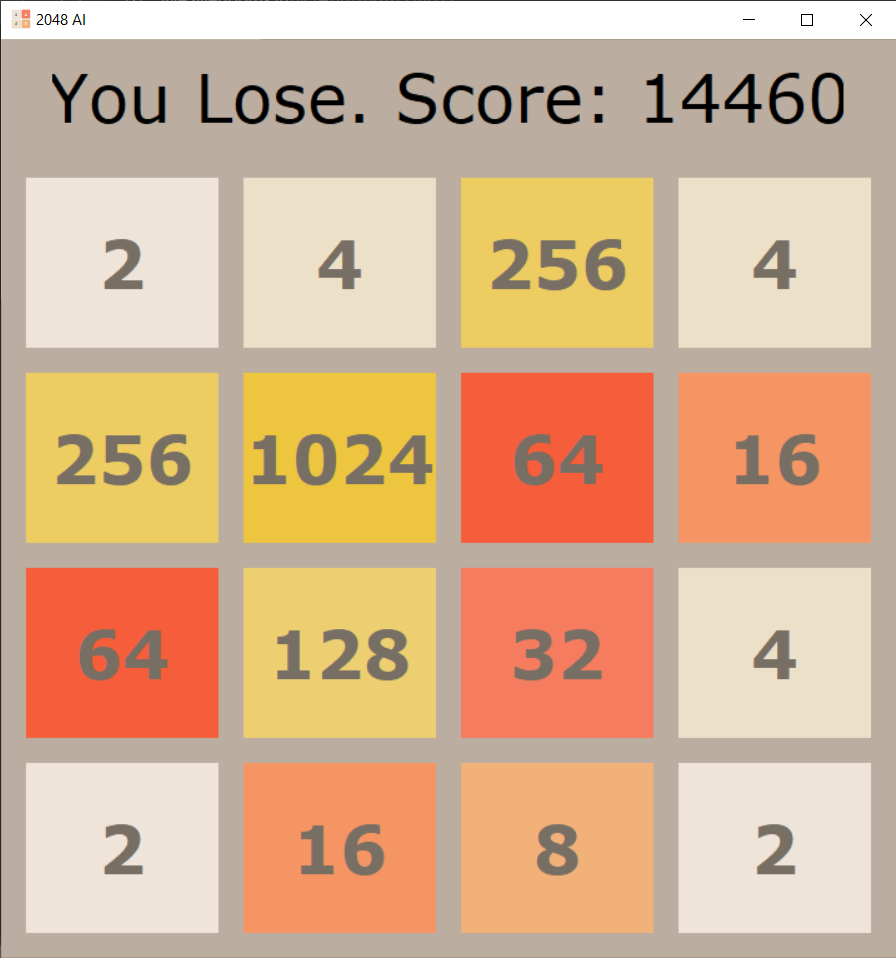
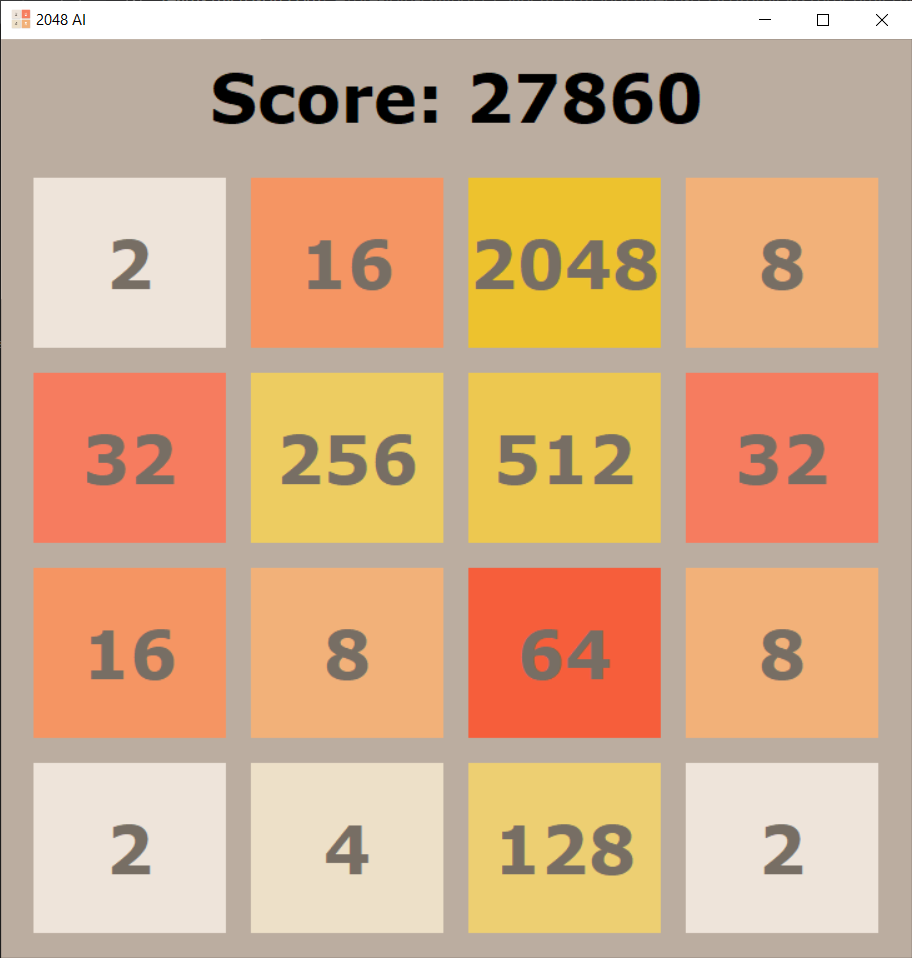
Updated README

diff --git a/Game.py b/Game.py
@@ -16,7 +16,7 @@ def runGame(playerIsHuman):
     score = 0
     scoreLabel = Label(
         root,
-        width = 20,
+        width = 19,
         height = 1,
         justify = CENTER,
         font = ('Verdana', 40, 'bold'),

diff --git a/README.md b/README.md
@@ -1,15 +1,9 @@
 # 2048 AI
-This is a algorithm, written in Python, which plays the game [2048](https://en.wikipedia.org/wiki/2048_(video_game)). It reaches an average score of 8,000 and high score of 15,000.
+This is a algorithm, written in Python, which plays the game [2048](https://en.wikipedia.org/wiki/2048_(video_game)). It reaches the 2048 tile about 60% of the time and 1024 tile nearly 100% of the time.
 
 ![Image](/screenshot.png)
 
-The algorithm is based on the [minimax](https://en.wikipedia.org/wiki/Minimax) algorithm. At each move, the algorithm looks into all possible moves, to a certain depth, and chooses the one with the best score. There is an element of randomness in the game, about where the 2s and 4s will appear on the board, so the algorithm take the average of scores for each possible position of the new tile.
-
-The score of each move is determined by a heuristic function. This function returns a score for a given game board which is based on common strategies for the game like:
- - Increasing the score
- - Placing higher value tiles in a single corner
- - Sorting tiles in increasing order so that it will be easy to merge them
- - Keeping higher numbers of empty tiles
+The algorithm is based on the [Monte Carlo Tree Search](https://en.wikipedia.org/wiki/Monte_Carlo_tree_search) algorithm. At each move, the algorithm performs a number of simulations, each of which is a random game of 2048. The algorithm then selects the move that has the best score.
 
 ## Prerequisites <a name = "prerequisites"></a>
  - Python 3+
